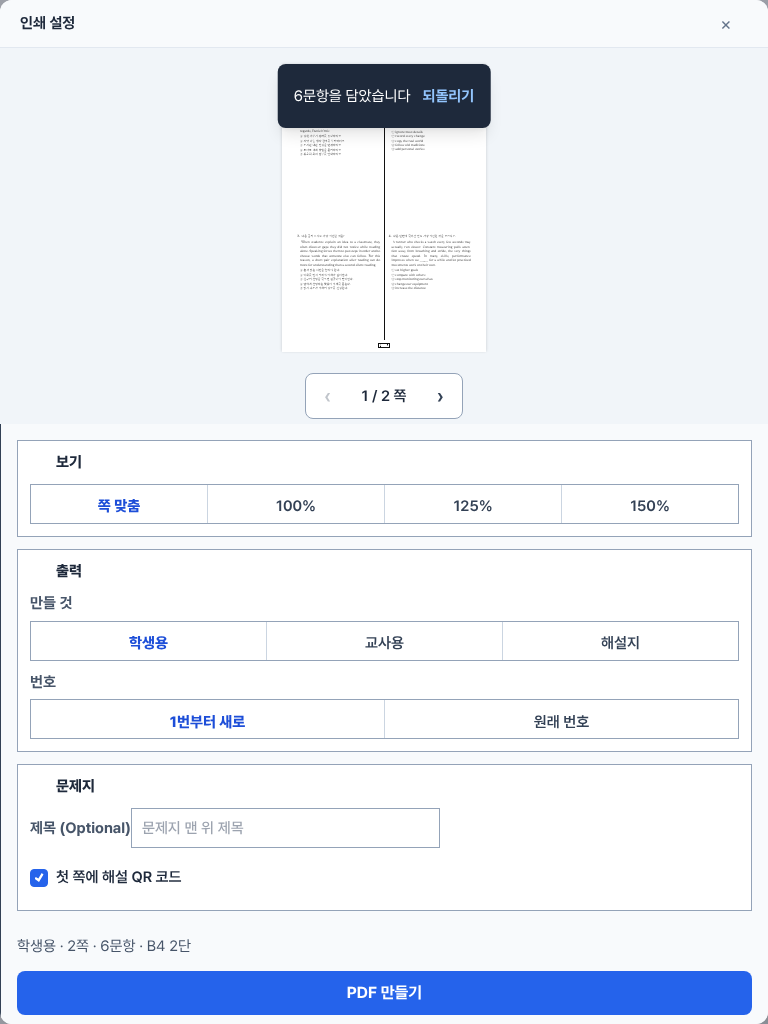
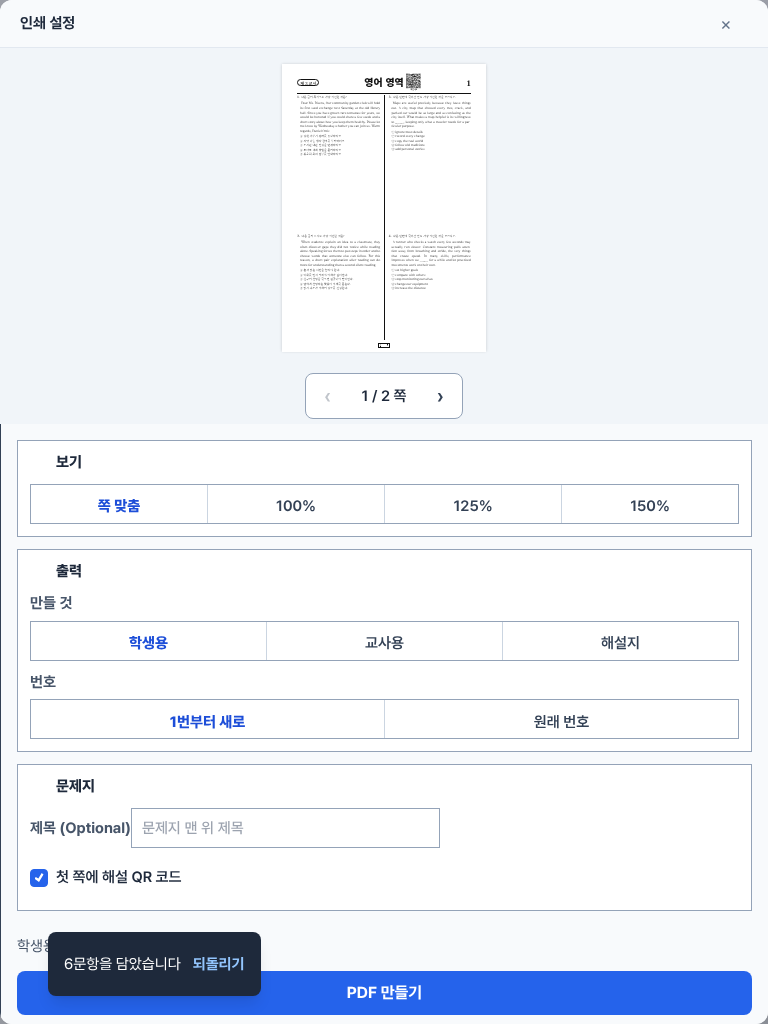
fix: 인쇄 창 제목칸 넘침, 토스트 위치, 홈 TOP15 버튼 여백 (스크린샷 점검)
Claude-Session: https://claude.ai/code/session_01QeHQAJ5jVXd3yZ9kd8soc1

Changed region(s): [[0.0625, 0.9062, 0.3438, 1.0], [0.3438, 0.0625, 0.6562, 0.125]]

diff --git a/문제은행/시안/시안.template.html b/문제은행/시안/시안.template.html
@@ -511,7 +511,7 @@ button.bkc:hover{background:#f1f5f9}.bkc.on{border-color:#65a30d;background:#f7f
 #listArea button[data-open],#pvPrev,#pvNext{min-width:40px}
 #homeView button[data-horg]:not(.on):not([aria-pressed=true]){color:#475569}
 }
-@media screen{body:has(#printModal.flex) #toast{bottom:auto;top:64px}}
+@media screen{body:has(#printModal.flex) #toast{top:auto;bottom:28px;left:48px;transform:none}#pmForm input{min-width:0;max-width:100%;box-sizing:border-box}.topbtn{padding-left:12px!important;padding-right:12px!important}}
 @media screen and (max-width:768px){
 :is(#sideNav,#homeView,#setsView,#findView,#drawer,#printModal,#toast) :is(button:not([data-hq2]):not([data-hq]):not(.qchip),select,summary,input[type=search],[role=tab]){min-height:44px;min-width:44px}
 #examStrip a,#examStrip button[data-exrm]{min-height:44px;min-width:44px}

diff --git a/문제은행/시안/예시_화면시안.html b/문제은행/시안/예시_화면시안.html
@@ -511,7 +511,7 @@ button.bkc:hover{background:#f1f5f9}.bkc.on{border-color:#65a30d;background:#f7f
 #listArea button[data-open],#pvPrev,#pvNext{min-width:40px}
 #homeView button[data-horg]:not(.on):not([aria-pressed=true]){color:#475569}
 }
-@media screen{body:has(#printModal.flex) #toast{bottom:auto;top:64px}}
+@media screen{body:has(#printModal.flex) #toast{top:auto;bottom:28px;left:48px;transform:none}#pmForm input{min-width:0;max-width:100%;box-sizing:border-box}.topbtn{padding-left:12px!important;padding-right:12px!important}}
 @media screen and (max-width:768px){
 :is(#sideNav,#homeView,#setsView,#findView,#drawer,#printModal,#toast) :is(button:not([data-hq2]):not([data-hq]):not(.qchip),select,summary,input[type=search],[role=tab]){min-height:44px;min-width:44px}
 #examStrip a,#examStrip button[data-exrm]{min-height:44px;min-width:44px}
